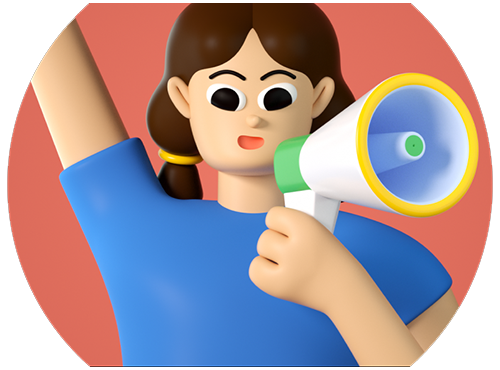
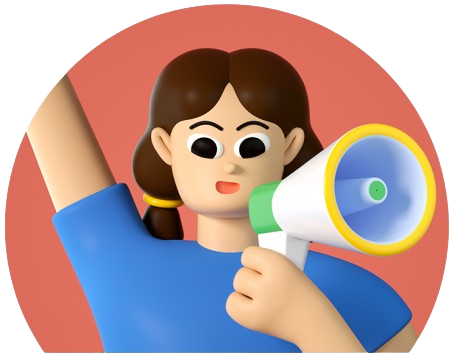
MODIFY: mainpage

diff --git a/FE/Frontend/src/teacher/myPage/TeacherPasswordChange.jsx b/FE/Frontend/src/teacher/myPage/TeacherPasswordChange.jsx
@@ -4,32 +4,44 @@ import styles from "./TeacherPasswordChange.module.scss";
 
 const TeacherPasswordChange = () => {
   return (
-    <div>
+    <div className={styles.array}>
       <div className={styles.menuArray}>
         <NavLink to="/teacherupdate" className={styles.updateMenu}>
           회원정보 수정
         </NavLink>
-        <div className={styles.changeMenu}>
-          비밀번호 변경
-        </div>
+        <div className={styles.changeMenu}>비밀번호 변경</div>
       </div>
       <div className={styles.formArray}>
         <div className={styles.passwordFormArray}>
-          <h2 className={styles.formTxt}>새로 사용할 비밀번호를 입력해주세요</h2>
+          <h2 className={styles.formTxt}>
+            새로 사용할 비밀번호를 입력해주세요
+          </h2>
           <hr />
           <div className={styles.passwordForm}>
             <div className={styles.inputForm}>
               <h3>현재 비밀번호</h3>
-              <input type="text" placeholder="Password" className={styles.inputTxtForm} />
+              <input
+                type="text"
+                placeholder="Password"
+                className={styles.inputTxtForm}
+              />
             </div>
             <div className={styles.inputForm}>
               <h3>새 비밀번호</h3>
-              <input type="text" placeholder="Password" className={styles.inputTxtForm} />
+              <input
+                type="text"
+                placeholder="Password"
+                className={styles.inputTxtForm}
+              />
               <h5>8~20자의 영문, 숫자, 특수문자를 사용하세요.</h5>
             </div>
             <div className={styles.inputForm}>
               <h3>새 비밀번호 확인</h3>
-              <input type="text" placeholder="Password" className={styles.inputTxtForm} />
+              <input
+                type="text"
+                placeholder="Password"
+                className={styles.inputTxtForm}
+              />
             </div>
             <div className={styles.formBtnArray}>
               <button className={styles.formBtn}>저장</button>

diff --git a/FE/Frontend/src/teacher/question/TeacherQuestion.jsx b/FE/Frontend/src/teacher/question/TeacherQuestion.jsx
@@ -1,7 +1,6 @@
 import { useState } from "react";
 import styles from "./TeacherQuestion.module.scss";
 import { FaTrash, FaEdit, FaSave } from "react-icons/fa";
-import Footer from "../../mainPage/Footer";
 
 const TeacherQuestion = () => {
   const initialQuestions = [
@@ -22,7 +21,7 @@ const TeacherQuestion = () => {
       question: "교장실 전화번호는 무엇인가요?",
       answer: "",
       answerText: "",
-    },
+    }
   ];
 
   const [questions, setQuestions] = useState(initialQuestions);
@@ -65,7 +64,6 @@ const TeacherQuestion = () => {
   };
 
   return (
-    <>
       <div className={styles.teacherQuestionContainer}>
         {questions.map((item) => (
           <div key={item.id} className={styles.qaPair}>
@@ -111,8 +109,6 @@ const TeacherQuestion = () => {
           />
         )}
       </div>
-      <Footer />
-    </>
   );
 };
 

diff --git a/FE/Frontend/src/teacher/myPage/TeacherPasswordChange.module.scss b/FE/Frontend/src/teacher/myPage/TeacherPasswordChange.module.scss
@@ -1,29 +1,34 @@
+.array {
+  display: flex;
+  align-items: center;
+  flex-direction: column;
+  width: 100vw;
+  height: 90vh;
+}
+
 .menuArray {
   display: flex;
-  margin-top: 0.5%;
-  width: 100vw;
-  height: 5vh;
+  margin-top: 0.9%;
+  width: 90vw;
+  height: 7.5vh;
 }
 
 .updateMenu,
 .changeMenu {
-  padding: 1.5% 0%;
   display: flex;
   justify-content: center;
   align-items: center;
   width: 50%;
-  height: 5vh;
-  border-radius: 50px 50px 0 0;
+  height: 100%;
+  border-radius: 25px 25px 0 0;
   font-size: 1.5rem;
 
-  /* Specific styles for updateMenu */
   &.updateMenu {
     background-color: #e0e0e0;
     text-decoration: none;
     color: black;
   }
 
-  /* Specific styles for changeMenu */
   &.changeMenu {
     background-color: #5285ee;
     color: white;

diff --git a/FE/Frontend/src/mainPage/Select.jsx b/FE/Frontend/src/mainPage/Select.jsx
@@ -20,7 +20,7 @@ const Select = () => {
             <h1>선생님</h1>
             <h3>선생님으로 시작하세요</h3>
             <div className={styles.imgArray}>
-              <img src={teacher} className={styles.Img} alt="teacher" />
+              <img src={teacher} className={styles.teacherImg} alt="teacher" />
             </div>
           </div>
         </NavLink>
@@ -32,7 +32,7 @@ const Select = () => {
             <h1>학생 / 학부모</h1>
             <h3>학생과 자녀가 있는 학부모</h3>
             <div className={styles.imgArray}>
-              <img src={parents} className={styles.Img} alt="parents" />
+              <img src={parents} className={styles.parentsImg} alt="parents" />
             </div>
           </div>
         </NavLink>

diff --git a/FE/Frontend/src/teacher/myPage/TeacherUpdate.module.scss b/FE/Frontend/src/teacher/myPage/TeacherUpdate.module.scss
@@ -1,19 +1,26 @@
+.array {
+  display: flex;
+  align-items: center;
+  flex-direction: column;
+  width: 100vw;
+  height: 90vh;
+}
+
 .menuArray {
   display: flex;
-  margin-top: 0.5%;
-  width: 100vw;
-  height: 5vh;
+  margin-top: 0.9%;
+  width: 90vw;
+  height: 7.5vh;
 }
 
 .updateMenu,
 .changeMenu {
-  padding: 1.5% 0%;
   display: flex;
   justify-content: center;
   align-items: center;
   width: 50%;
   height: 100%;
-  border-radius: 50px 50px 0 0;
+  border-radius: 25px 25px 0 0;
   font-size: 1.5rem;
 
   &.updateMenu {

diff --git a/FE/Frontend/src/chatbot/Chatbot.module.scss b/FE/Frontend/src/chatbot/Chatbot.module.scss
@@ -7,22 +7,22 @@
 .ChatbotImg {
     position: absolute;
     bottom: 0%;
-    right: 0%;
-    width: 70px;
-    height: 60px;
-    margin: 0.5%;
+    right: 1%;
+    width: 4vw;
+    height: 7.5vh;
     cursor: pointer;
 }
 
 .formBox {
     position: absolute;
-    bottom: 60px;
+    bottom: 0%;
     right: 5%;
     width: 20vw;
     height: 60vh;
     background-color:white;
     border: 1px solid #aaaaaa;
     border-radius: 20px;
+    margin-bottom: 2%;
 }
 
 .formBox hr {

diff --git a/FE/Frontend/src/App.scss b/FE/Frontend/src/App.scss
@@ -1,7 +1,11 @@
 @import url("https://fonts.googleapis.com/css2?family=Noto+Sans:wght@400;700&display=swap");
 
 body {
-  overflow-x: hidden; /* 가로 스크롤바 숨기기 */
+  overflow-x: hidden;
+  width: 100vw;
+  height: 100vh;
+  margin: auto;
+  padding: auto;
 }
 
 .navbar-array {
@@ -42,4 +46,3 @@ body {
 .menu-array .active {
   color: #5285ee; /* 활성화된 링크 색상 */
 }
-

diff --git a/FE/Frontend/src/teacher/question/TeacherQuestion.module.scss b/FE/Frontend/src/teacher/question/TeacherQuestion.module.scss
@@ -5,14 +5,13 @@
   flex-direction: column;
   gap: 3vh;
   padding: 5vh;
-  align-items: center; /* 중앙 정렬 추가 */
-  height: 100vh;
+  align-items: center;
 }
 
 .qaPair {
   display: flex;
   flex-direction: column;
-  align-items: center; /* 중앙 정렬 추가 */
+  align-items: center;
 }
 
 .boxContainer {

diff --git a/FE/Frontend/src/mainPage/Select.module.scss b/FE/Frontend/src/mainPage/Select.module.scss
@@ -122,13 +122,19 @@
 .imgArray {
   display: flex;
   justify-content: center;
-  width: 100%;
+
 }
 
-.Img {
-  margin-top: 15%;
+.teacherImg {
+  margin-top: 10%;
+  width: 21vw;
+  height: 37vh;
+}
+
+.parentsImg {
+  margin-top: 10%;
   width: 20vw;
-  height: 33vh;
+  height: 36vh;
 }
 
 .scroll {

diff --git a/FE/Frontend/src/teacher/myPage/TeacherUpdate.jsx b/FE/Frontend/src/teacher/myPage/TeacherUpdate.jsx
@@ -4,7 +4,7 @@ import styles from './TeacherUpdate.module.scss';
 
 const TeacherUpdate = () => {
   return (
-    <div>
+    <div className={styles.array}>
       <div className={styles.menuArray}>
         <div className={styles.updateMenu}>
           회원정보 수정
